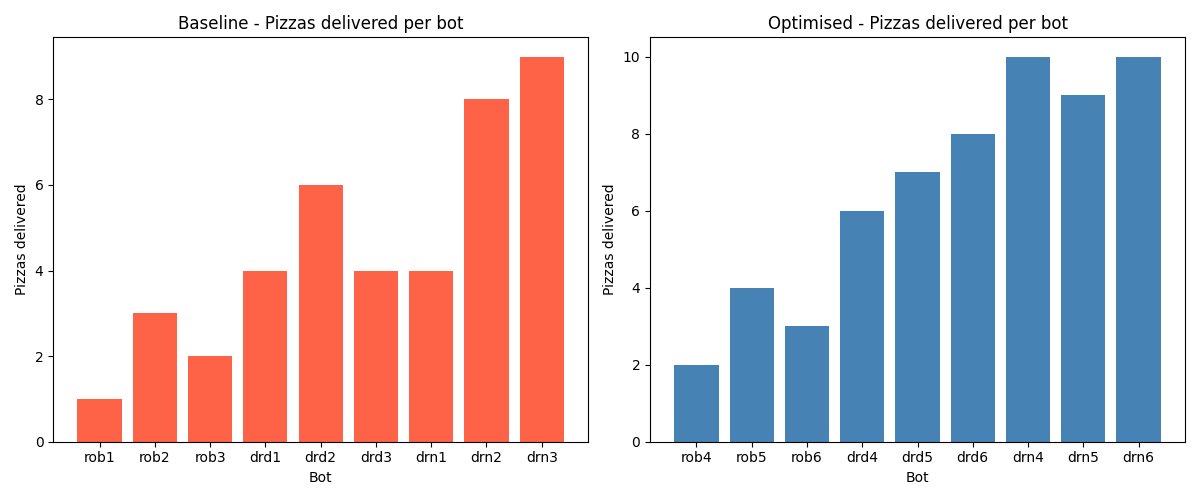
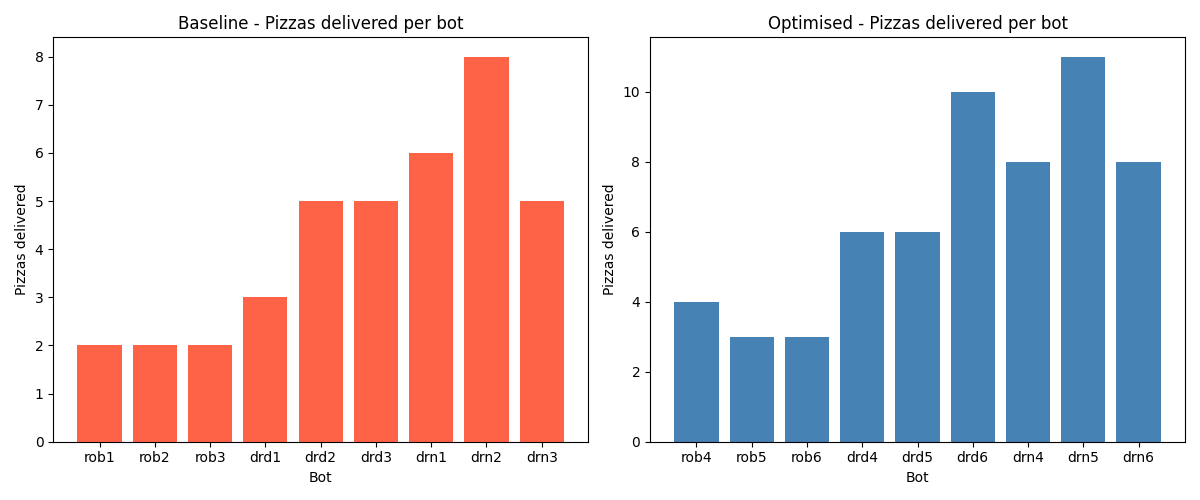
fix: move files to correct locations per submission checklist and add README and Task 4 discussion

diff --git a/25WSA032_Coursework_V1103/documentation/task4_discussion.md b/25WSA032_Coursework_V1103/documentation/task4_discussion.md
@@ -1,0 +1,26 @@
+# Task 4 - Temperature Data Analysis Discussion
+
+## Data Collection
+Temperature data was recorded using the Arduino adaptive monitoring system
+built in Task 2. The sensor was placed near a PS4 vent to generate a
+meaningful temperature change. Data was recorded as CSV via the Serial Monitor.
+
+## Time-domain behaviour
+The temperature dropped from around 38C to 26C over 145 seconds as the
+sensor cooled down after being near a heat source. The signal was smooth
+with no sudden jumps or noise.
+
+## Frequency-domain behaviour
+The DFT showed a large spike at 0Hz which is the DC component representing
+the average temperature. There were small magnitudes at very low frequencies
+matching the slow cooling trend. No high frequency components were present.
+
+## System behaviour
+The system switched to IDLE mode after the first cycle because the temperature
+was changing slowly rather than oscillating rapidly. This is correct behaviour
+for this type of signal, though it means the system might stay in IDLE even
+during large but gradual changes.
+
+## Data quality
+The 30 data points at 0.2Hz were enough to capture the cooling curve clearly.
+More data points would not have changed the overall shape.

diff --git a/25WSA032_Coursework_V1103/README.md b/25WSA032_Coursework_V1103/README.md
@@ -1,5 +1,26 @@
 # READ ME
 
-This file is in the 'root of your project.
-You can use this to provide top-level documentation of your project
+# F536539 - 25WSA032 Coursework
 
+## Repository Structure
+- `arduino/` - Task 2: Adaptive temperature monitoring system
+- `robots/` - Task 3: Robot pizza delivery optimisation
+- `python/` - Task 4: Temperature data analysis and visualisation
+- `documentation/` - Coursework brief and supporting documents
+
+## Tasks
+- **Task 1** - Git source control and version management
+- **Task 2** - Arduino adaptive temperature monitoring with DFT and power modes
+- **Task 3** - Robot pizza delivery optimisation with KPI comparison
+- **Task 4** - Temperature data analysis and visualisation
+
+## How to Run
+Run from the `25WSA032_Coursework_V1103` folder: 
+### Task 3 (Python)
+python.exe -m robots.robot_optimisation
+
+### Task 4 (Python)
+python.exe -m python.temperature_analysis
+
+### Task 2 (Arduino)
+Open `arduino/temperature_optimisation.ino` in Arduino IDE, select the correct board and port, then upload.